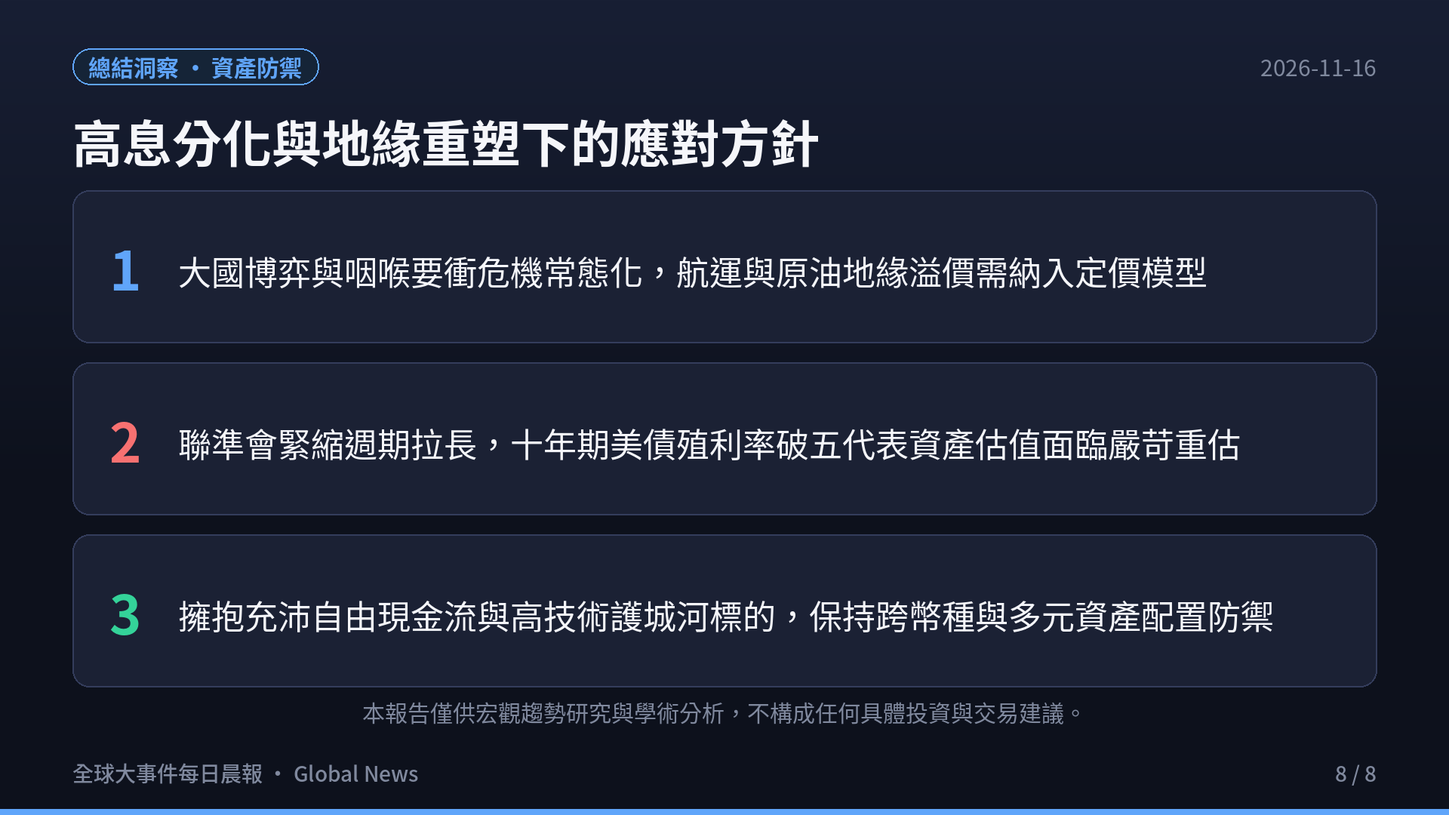
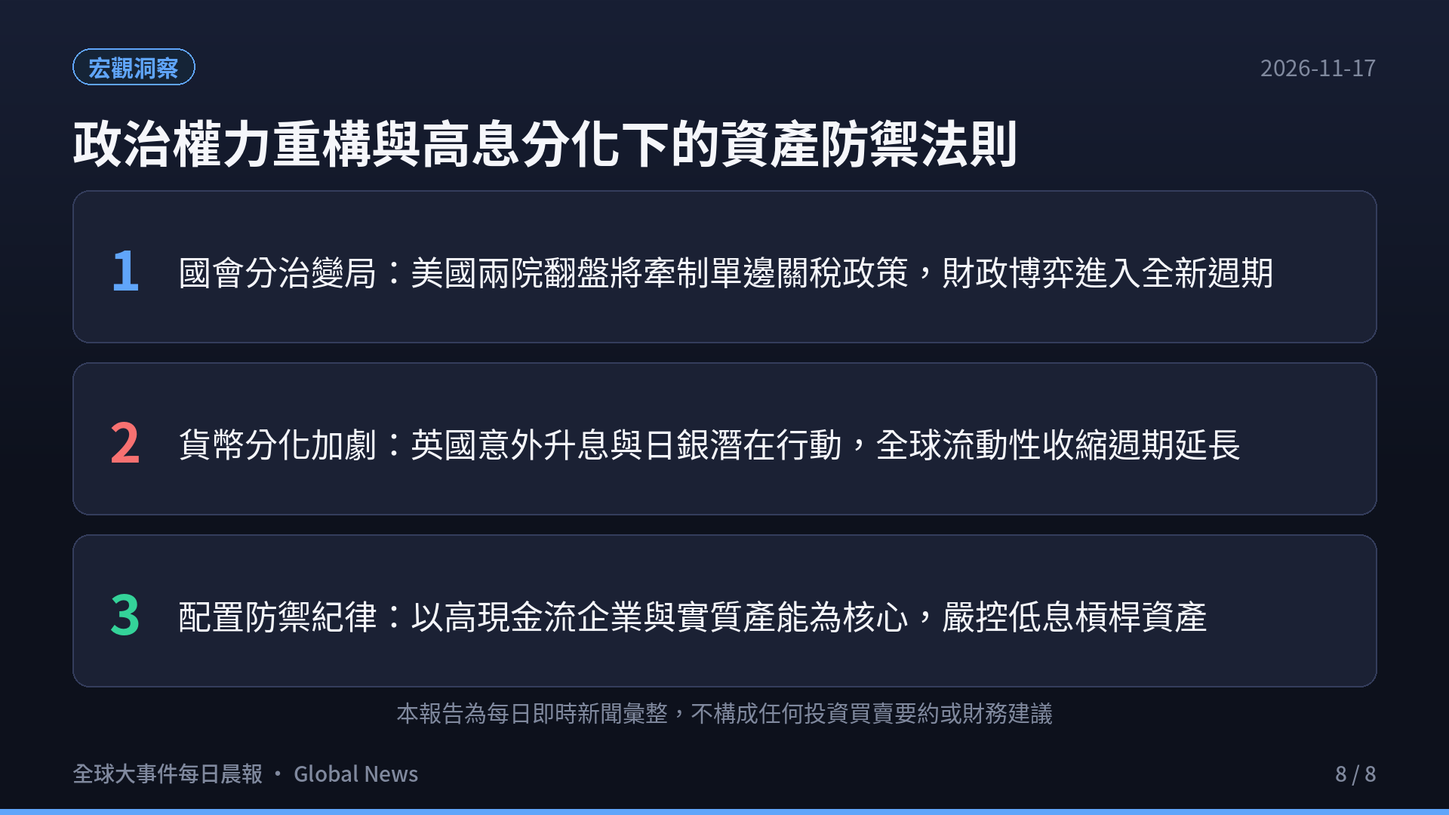
feat(blog): add global news daily report 2026-11-17 with slides and video

diff --git a/content/global-news/index.md b/content/global-news/index.md
@@ -1,26 +1,26 @@
 ---
-title: "全球大事件每日晨報 · 2026-11-16：SpaceX星艦歷史性回收・美通膨引爆升息警報・中美經貿首會・曼德海峽航運危機"
+title: "全球大事件每日晨報 · 2026-11-17：美期中選藍潮翻盤兩院・英央行升息至4%・俄伊導彈密件曝光・加國千億預算"
 url: "/global-news/"
-date: 2026-11-16T05:30:00+08:00
+date: 2026-11-17T05:30:00+08:00
 draft: false
 image: cover.png
 cover: "https://ckw19810413.github.io/global-news/cover.png"
-description: "2026-11-16 全球重大事件深度解析：SpaceX 星艦二級飛船實現歷史性發射塔空中捕獲回收、美國 10 月通膨回升至 0.4% 引爆聯準會升息警報、美債殖利率飆破 5%、中國央行調升外匯準備金率至 6%、中美舉行貿易理事會首會磋商 300 億對等降稅、阿布達比和談傳出領土換北約討論、伊朗無人機突襲巴林美軍雷達、葉門南方部隊撤離曼德海峽導致紅海航運溢價飆升，以及全球前十大經濟體核心總體數據橫向評比。"
-tags: ["全球大事件", "國際局勢", "SpaceX", "星艦", "聯準會", "美債殖利率", "通膨", "中美經貿", "外匯準備金", "曼德海峽", "烏克蘭和談", "總體經濟"]
+description: "2026-11-17 全球重大事件深度解析：美洲民主黨贏得期中大選奪回兩院、道瓊暴漲千點、英國央行升息至 4%、歐洲連環航班炸彈威脅排查、俄伊 90 具先進飛彈軍援密件曝光、加拿大公布 1510 億預算案、巴拉圭總統因銀行風暴請辭、亞洲製造業微幅回溫，以及全球前十大經濟體核心總體數據橫向評比。"
+tags: ["全球大事件", "國際局勢", "期中選舉", "美股", "英國升息", "歐洲航班", "俄伊密件", "荷姆茲海峽", "加拿大預算", "日銀升息", "總體經濟"]
 categories: ["國際局勢", "總體經濟"]
 aliases:
-  - "/blog/2026-11-16-global-news/"
-  - "/global-news/2026-11-16/"
+  - "/blog/2026-11-17-global-news/"
+  - "/global-news/2026-11-17/"
 ---
 
-> **觀測週期**：2026-11-16 晨間即時彙整  
+> **觀測週期**：2026-11-17 晨間即時彙整  
 > **情報涵蓋**：全球各大洲（北美、歐洲、中東、亞洲/印太、拉美、大洋洲）與全球前 10 大經濟體  
-> **核心來源**：各國政府公報、路透社（Reuters）、美聯社（AP）、新華社、各國央行公報與 S&P Global PMI 報告  
+> **核心來源**：各國政府公報、路透社（Reuters）、美聯社（AP）、英國衛報（The Guardian）、各國央行公報與 S&P Global PMI 報告  
 > **定位宗旨**：以客觀數據、官方決策與供應鏈結構為準繩，剔除短期情緒噪音，提煉出真正驅動全球資金流向與地緣版圖重構的核心脈絡。
 
 <div style="margin: 2rem 0; border-radius: 12px; overflow: hidden; box-shadow: 0 4px 20px rgba(0,0,0,0.12); border: 1px solid rgba(128,128,128,0.2);">
   <div style="position: relative; padding-bottom: 56.25%; height: 0; overflow: hidden; background: #0f121c;">
-    <iframe src="https://www.youtube.com/embed/vE_8XUdjXSE" title="2026-11-16 全球大事件每日晨報" style="position: absolute; top:0; left: 0; width: 100%; height: 100%; border: 0;" allow="accelerometer; autoplay; clipboard-write; encrypted-media; gyroscope; picture-in-picture; web-share" allowfullscreen></iframe>
+    <iframe src="https://www.youtube.com/embed/7VPUSr-dyS4" title="2026-11-17 全球大事件每日晨報" style="position: absolute; top:0; left: 0; width: 100%; height: 100%; border: 0;" allow="accelerometer; autoplay; clipboard-write; encrypted-media; gyroscope; picture-in-picture; web-share" allowfullscreen></iframe>
   </div>
   <div style="background: rgba(0,0,0,0.03); padding: 10px 16px; font-size: 0.9rem; color: var(--card-text-color-secondary, #666); text-align: center; border-top: 1px solid rgba(128,128,128,0.15);">
     🎬 <strong>120 秒晨間快報影音動態版</strong>（含 AI 自然神經語音朗讀與背景配樂）
@@ -31,79 +31,81 @@ aliases:
 
 ## 🎯 今日全球前 6 大核心事件深度拆解
 
-![焦點 1：SpaceX星艦實現「筷子夾飛船」，全美航空通信混亂逐步排除](s02.png)
+![焦點 1：美國期中大選藍潮翻盤，民主黨奪回兩院控制權](s02.png)
 
-### 1. 美洲航太與基礎設施：SpaceX 星艦創歷史性「筷子夾飛船」二級空中回收，全美航空停飛混亂逐步疏解
-- **星艦二級空中精準捕獲里程碑**：
-  - SpaceX 星艦從德州星艦基地升空，在軌繞飛 14 圈（歷時 22.5 小時）並成功部署 26 顆星鏈 V3 衛星後受控返回。發射塔巨型機械臂「Mechazilla（筷子）」首次在空中成功接住第二級飛船本體，實現人類航太史上首次完全可重複使用軌道飛船的空中捕捉。
-  - 儘管超重型助推器返航時轉向墨西哥灣觸水前解體，本次任務對二級飛船的捕獲驗證了星艦全面低成本進入太空與在軌加油的核心工程邏輯。
-- **全美航空通信故障逐步排除**：
-  - 針對美國空管系統日前突發通信故障引發全美逾 3,300 架次航班取消的混亂，美國聯邦航空局（FAA）局長布賴恩·貝德福德表示系統已修復，週日晚間各空運樞紐運能恢復正常，客流積壓正加速疏導。
-
----
-
-![焦點 2：美國十月通膨升至0.4%超預期，聯準會官員表態不排除加息](s03.png)
-
-### 2. 美洲宏觀經濟與資本市場：美國十月通膨反彈超預期，Fed 鷹派官員警示加息，美債十年期殖利率破 5%
-- **物價黏性與核心通膨反彈**：
-  - 美國最新公布的十月消費者物價指數（CPI）月增率達到 0.4%，核心 CPI 月增率 0.3%，均超出華爾街市場預估。租金住房成本與醫療服務業通膨具備高度黏性，通膨頑固回落困難。
-  - 十年期美國國債殖利率維持在 4.98%–5.15% 高檔震盪，兩年期殖利率升至 4.73%，創下數月以來新高。
-- **聯準會官員密集釋出鷹派信號**：
-  - 堪薩斯聯準銀行總裁 Jeff Schmid 與達拉斯聯準銀行總裁 Lorie Logan 等決策官員相繼發表公開演說，強調物價壓力依然過熱、通膨正走向錯誤方向，不排除需要進一步收緊貨幣政策。
-  - 利率期貨市場定價對十二月聯邦公開市場委員會（FOMC）升息一碼的機率已飆升至 80% 附近，高利率環境對全球科技股與高槓桿資產持續帶來重估壓力。
+### 1. 美洲政局與資本市場：美國期中選舉藍潮掀天翻地覆，民主黨重奪兩院掌控權，道瓊狂飆千點
+- **兩院版圖大翻盤與行政掣肘**：
+  - 美國期中大選計票塵埃落定，民主黨成功掀起「藍色浪潮」，一舉擊敗共和黨，同時奪回參議院與眾議院的絕對多數席次。
+  - 川普總統面臨任期後兩年的重大國會掣肘，白宮發言人隨後表態願與新國會多數展開跨黨派合作。此結果大幅降低了單邊全面徵收高額行政關稅的極端立法風險。
+- **資本市場暴力狂歡與避險消退**：
+  - 華爾街股市迎來狂歡式反彈，道瓊工業指數單日暴漲逾 1,500 點；與此同時，地緣避險溢價迅速回吐，國際原油期貨價格重挫回落。
+  - 聯準會利率目標區間維持在 3.75%–4.00%，市場預期分裂國會將遏制過度擴張性的財政赤字刺激，減輕後續通膨二次抬頭的風險。
 
 ---
 
-![焦點 3：中國央行調升外匯準備金率至6%，中美舉行貿易理事會首會](s04.png)
+![焦點 2：英國央行升息至 4%，歐洲航班驚傳連環炸彈威脅](s03.png)
 
-### 3. 亞太匯率與跨國經貿：中國央行調升外匯存款準備金率至 6%，中美經貿磋商機制項下首度舉行貿易理事會
-- **人行上調外匯存準率鎖定流動性**：
-  - 中國人民銀行（PBOC）自 11 月 15 日起正式將金融機構外匯存款準備金率由 4% 上調至 6%。此舉將收縮金融體系外幣流動性，有助於平衡外匯市場供求，有效抑制近期人民幣匯率的單邊升值預期，維持匯率在合理均衡水平上的基本穩定。
-- **中美貿易理事會首會落實對等降稅**：
-  - 中美雙方透過視訊形式舉行了經貿磋商機制項下「貿易理事會」首次會議。兩國圍繞落實元首共識，深入探討了關稅安排、「300億對300億」對等降稅清單以及農產品貿易，致力於拉長合作清單、壓縮問題清單。
-  - 同時，2026 APEC 深圳領導人會議周籌備工作已全面就緒，北交所亦迎來開市五週年，總市值達 8,000 億元人民幣。
-
----
-
-![焦點 4：烏克蘭和談新博弈：阿布達比傳出「頓巴斯換北約」討論](s05.png)
-
-### 4. 歐洲地緣與大國斡旋：烏克蘭和平談判迎關鍵轉折，阿布達比談判首度浮現「頓巴斯換北約」設想
-- **停火籌碼與領土談判公開化**：
-  - 在阿布達比舉行的最新一輪閉門和平斡旋中，美方談判代表首度向各方探討烏克蘭是否可能在東部頓巴斯地區做出領土妥協以換取加入北約的具體安排。
-  - 烏克蘭總統澤倫斯基在記者會上首度證實該議題已在談判桌上被提出，但強調任何方案都必須具備不可推翻的國際集體防衛安全保證，引發歐洲各國高度關注與戰略評估。
-- **美俄高層外交接觸加速**：
-  - 國際分析指出普丁與川普團隊正在推動高層戰略對話，但歐盟內部對於未來防務預算分攤以及烏克蘭主權邊界的保障仍存在顯著分歧，地緣博弈進入高度複雜的多方博弈期。
+### 2. 歐洲貨幣與航空安全：英格蘭銀行升息一碼至 4.0%，全歐二十餘航班遭遇虛假炸彈威脅緊急排查
+- **英國央行逆勢緊縮打擊通膨**：
+  - 英國央行（Bank of England）在 11 月議息會議宣布將基準利率上調 25 個基點至 **4.0%**，以壓制最新反彈至 3.5% 的核心消費者物價指數（CPI）。
+  - 標普全球（S&P Global）數據顯示，企業在人工智慧（AI）與雲端科技的資本支出推動英國服務業 PMI 躍升至八個月新高 52.8，但服務業工資黏性仍促使央行維持強硬立場。
+- **歐洲民航遭遇系統性虛假警報衝擊**：
+  - 全歐洲境內超過 21 架次國際商業航班遭遇協同性質的連環炸彈威脅，多座主要國際機場被迫緊急暫停起降並引導客機實施跑道滑行隔離搜查。
+  - 歐盟交通運輸專員已緊急聯手各國情報與航空安全局展開跨國溯源調查。
 
 ---
 
-![焦點 5：伊朗革命衛隊襲擊巴林美軍雷達，胡塞武裝進逼曼德海峽](s06.png)
+![焦點 3：俄伊導彈軍援密件曝光，荷姆茲海峽受損船隻引戒備](s04.png)
 
-### 5. 中東安全與咽喉要衝：伊朗無人機突襲巴林美軍雷達站，葉門親政府軍撤離曼德海峽，紅海航運風險再飆
-- **波斯灣軍事摩擦與空防交火**：
-  - 伊朗伊斯蘭革命衛隊（IRGC）宣稱出動六架自殺式無人機襲擊了位於巴林 Al-Riffa 直升機基地的美軍防空雷達系統，並在荷姆茲海峽格什姆島上空擊落一架美軍 MQ-1「捕食者」無人機；沙烏地聯軍則成功攔截了朝利雅德首都圈與東部油田射來的胡塞彈道飛彈。
-- **曼德海峽控制權位移與全球航運溢價**：
-  - 葉門政府盟友「南方武裝部隊」宣布從關鍵戰略節點曼德海峽沿岸撤離，回防南部重鎮亞丁市。此舉使伊朗支持的胡塞武裝進一步擴大並鞏固了對曼德海峽紅海咽喉要道的控制。
-  - 國際航運保費應聲調漲，各大航運巨頭維持繞行好望角策略，全球航運供應鏈週轉效率再次承壓。
+### 3. 中東防務與航運樞紐：烏情報曝俄向伊朗提供 90 具先進導向飛彈發射器，荷姆茲海峽受損船隻引發航運警戒
+- **俄伊戰略軍事技術合作文件外洩**：
+  - 烏克蘭情報部門獲取並經外媒確認的洩密防務文件顯示，俄羅斯已與伊朗達成協議，向德黑蘭提供 90 具先進 LMUR 直升機發射型精確導引飛彈系統，並持續提供軍用級衛星定位與目標偵察數據。
+  - 此舉被視為俄伊戰略夥伴關係的實質升級，引發美國五角大廈與中東盟邦對波斯灣軍事平衡的高度戒備。
+- **波斯灣與荷姆茲海峽航行警戒持續**：
+  - 伊朗伊斯蘭革命衛隊（IRGC）報告波斯灣荷姆茲海峽水域發生零星船隻受損事件，國際航運龍頭馬士基（Maersk）等持續啟動緊急應變規避指引，區域海上保險費率維持高檔。
 
 ---
 
-![焦點 6：全球前 10 大經濟體核心指標與政策全覽](s07.png)
+![焦點 4：加拿大公布千億預算案，巴拉圭總統因銀行風暴請辭](s05.png)
 
-### 6. 全球前 10 大經濟體核心總體數據橫向比對
-以下為本觀測週期全球前十大經濟體的貨幣政策、通膨走勢、實質動態與最新展望：
+### 4. 美洲與拉美震盪：加拿大推出 1510 億產能擴張預算，巴拉圭爆發銀行擠兌危機總統培尼亞請辭
+- **加拿大 2026 年度聯邦預算拍板**：
+  - 加拿大財政部長商鵬飛（François-Philippe Champagne）在總理馬克·卡尼（Mark Carney）內閣下發表高達 1,510 億加幣的第二任期聯邦預算案。
+  - 預算核心著重於大規模拉動私人資本投資、改善國家生產力瓶頸，並緩解家庭生活成本壓力，同時為美加可能出現的新一輪貿易摩擦築起防禦緩衝。
+- **南美爆發金融擠兌引發政局崩盤**：
+  - 南美洲巴拉圭大型商業銀行突發性流動性崩潰，引發全境數百萬民眾恐慌性排隊擠兌與街頭混亂。
+  - 在眾議院即將通過彈劾案前夕，巴拉圭總統聖地牙哥·培尼亞（Santiago Peña）正式宣布辭職，南美新興市場主權風險溢價隨之上升。
 
-| 排名 | 經濟體 | 核心貨幣政策與利率 | 最新重大進展與數據脈動 | 結構性趨勢與中長期展望 |
+---
+
+![焦點 5：亞洲製造業景氣微幅回溫，日銀維持 1.25% 利率](s06.png)
+
+### 5. 亞洲工廠動能與印太安保：亞洲製造業獲科技需求支撐，日銀按兵不動醞釀升息，北韓試射防空導彈
+- **亞洲供應鏈展現韌性**：
+  - 日本綜合採購經理人指數（Composite PMI）錄得 52.1，寫下連續第 19 個月保持在擴張區間的穩健紀錄，科技與半導體周邊設備需求提供主要支撐。
+  - 中國 RatingDog / S&P 合作發布的民間製造業 PMI 穩守 50 榮枯線之上，儘管銅冶煉廠面臨副產品硫酸價格暴跌帶來的利潤擠壓，高技術產品外銷仍具支撐力。
+- **印太安全情勢與東北亞動態**：
+  - 日本央行在貨幣政策決議中以 8 比 1 投票結果維持基準利率在 1.25% 不變，但總裁植田和男再次暗示若物價符合預期，年底或 2027 年初將進一步實施貨幣政策正常化。
+  - 北韓官方宣布成功完成新型防空飛彈與巡弋飛彈的多模式導向性能測試，美韓軍事同盟啟動動態警戒應對。
+
+---
+
+![焦點 6：全球前十大經濟體核心指標與趨勢](s07.png)
+
+### 6. 全球前十大經濟體核心指標與趨勢橫向全景
+
+| 排名 | 國家 / 經濟體 | 核心總體經濟數據 / 最新指標 | 2026-11-17 即時動態與政策取向 | 全球產業鏈與市場意涵 |
 |:---:|:---|:---|:---|:---|
-| **1** | **美國 (US)** | 聯邦基準利率 **3.75%–4.00%** · 12月升息預期升溫 | 10月 CPI 上漲 0.4%，10年期美債殖利率破 5.15%；全美航空空管修復 | 勞動力市場具黏性，高息環境壓制商業地產與中小型企業，科技資本支出呈現分化。 |
-| **2** | **中國 (China)** | 外匯存準率調升至 **6.0%** · 穩健貨幣政策 | 外匯存準率正式調升平衡匯市；中美貿易理事會首會磋商 300 億對等降稅 | 政策穩步推進長期資本與新質生產力，北交所 5 週年市值達 8,000 億，深圳 APEC 在即。 |
-| **3** | **德國 (Germany)** | 歐洲央行存款利率 **2.50%** · 限制性區間 | 歐元區通膨趨緩但製造業訂單疲弱；能源重組與綠色法規推升工業成本 | 工業龍頭在去碳化與高能源成本間艱難轉型，出口導向經濟體受全球關稅博弈壓制。 |
-| **4** | **日本 (Japan)** | 無擔保隔夜拆款利率 **1.25%** · 醞釀緊縮 | 日銀評估秋季薪資與服務業通膨，市場密切關注年末是否啟動進一步升息 | 擺脫三十年通縮循環，企業調薪推動良性通膨循環，日圓匯率與海外利差動態平衡。 |
-| **5** | **印度 (India)** | 附買回利率 **6.50%** · 經濟高速擴張 | 本季 GDP 增速維持在 7.2% 高位；跨國電子製造業加速投資設廠 | 人口紅利與「印度製造」吸引外資，但通膨與基礎設施瓶頸仍是中長期約束因素。 |
-| **6** | **英國 (UK)** | 基準利率 **4.00%** · 應對服務業黏性通膨 | 央行維持緊縮立場，服務業通膨反彈至 3.5%；金融與 AI 投資提供支撐 | 房貸按揭負擔沈重壓制居民消費，高息環境對公共財政赤字整頓帶來持續考驗。 |
-| **7** | **法國 (France)** | 歐洲央行統一利率 **2.50%** · 財政嚴格監控 | 財政預算審查與社會福利博弈白熱化；航空安全與地緣警戒推升維穩支出 | 公共債務高企限縮財政刺激空間，核心製造業與航空航太產業受地緣供應鏈牽制。 |
-| **8** | **義大利 (Italy)** | 歐元區存款利率 **2.50%** · 國債利差持穩 | 歐元區降息節奏放緩；義大利 10 年期國債利差保持健康，歐盟基建款穩步到位 | 倚重歐盟「復甦基金」推動數位化與能源基建，經濟成長高度依賴外部資金支持。 |
-| **9** | **加拿大 (Canada)** | 基準利率 **3.25%** · 貿易防範預警 | 聯邦政府平衡房地產降溫與赤字開支；提前防範北美貿易協定潛在地緣變數 | 人均生產力停滯，央行需在防範通膨回潮與避免按揭市場斷供之間維持精細平衡。 |
-| **10** | **澳洲 (Australia)** | 現金利率目標 **4.35%** · 商品貿易順差 | 澳洲央行維持限制性高息；大宗鐵礦石與液化天然氣出口維持強韌貿易帳 | 關鍵礦產與綠色能源出口吸引跨國投資，但房租與服務業通膨黏性限制短期降息空間。 |
+| **1** | **美國 (USA)** | 基準利率 **3.75%–4.00%** · 通膨 **3.7%** | 期中大選藍潮奪回兩院；道瓊暴漲 1500 點；川普承諾與國會合作 | 國會分治阻絕激進單邊關稅風險，美股風險溢價快速重估，長端殖利率壓力略減。 |
+| **2** | **中國 (China)** | 民間 PMI **> 50** · 銅冶煉利潤承壓 | 科技製造業外銷訂單維持動能；副產品價格下跌壓抑冶煉業；財政基建持續落地 | 科技與新能源供應鏈維持韌性，製造業加速向高附加價值端升級。 |
+| **3** | **德國 (Germany)** | 歐洲央行存款利率 **2.50%** · 工業疲軟 | 歐元區航班炸彈威脅衝擊交通；ECB 利率按兵不動；汽車供應鏈轉型陣痛 | 德國作為歐洲工業龍頭持續受制於高能源成本與地緣分割，依賴新基建帶動。 |
+| **4** | **日本 (Japan)** | 政策利率維持 **1.25%** · 綜合 PMI **52.1** | 連續 19 個月維持景氣擴張；日銀釋放年底進一步升息預期；AI 晶片設備出口穩健 | 日圓匯率築底反彈，日銀正常化進程持續牽引全球套息交易（Carry Trade）倉位調整。 |
+| **5** | **印度 (India)** | GDP 預測成長 **6.8%** · 通膨率 **5.0%** | Quad 關鍵礦產與半導體產線深化；新德里選務抗議維安警戒；內需消費強勁 | 作為全球供應鏈多元化核心樞紐，資本流入動能強勁，製造業產能迅速擴增。 |
+| **6** | **英國 (UK)** | 基準利率升至 **4.0%** · 服務業 PMI **52.8** | 英國央行升息一碼應對 3.5% 通膨；企業 AI 支出爆發帶動服務業八個月新高 | 服務業需求展現高韌性，但高利率對地產與按揭貸款家庭造成進一步借貸成本壓力。 |
+| **7** | **法國 (France)** | 歐洲央行存款利率 **2.50%** · 罷工餘波 | 生活成本高漲引發全國黑色星期四抗議；航空炸彈警報波及巴黎等樞紐機場 | 社會福利與財政緊縮政策博弈加劇，公共部門預算整頓面臨政治民意反彈。 |
+| **8** | **義大利 (Italy)** | 歐元區統一利率 **2.50%** · 國債監控 | 歐元區降息預期暫緩；國債利差持穩；歐盟綠色轉型與基礎建設專案推進 | 財政審查嚴格，對歐洲央行貨幣緊縮節奏極度敏感，聚焦高收益基建回報。 |
+| **9** | **加拿大 (Canada)** | 1510 億聯邦預算 · 刺激生產力 | 財長商鵬飛發表卡尼內閣預算案；拉動私人資本投資防範美加貿易變數 | 擴張性預算旨在提升人均生產力，並在美選後對北美自由貿易協定進行動態預防。 |
+| **10** | **澳洲 (Australia)** | 基準利率 **4.35%** · 商品貿易順差 | 澳洲央行維持限制性高息；大宗金屬與天然氣出口穩定；籌備 COP31 氣候峰會 | 能源過渡與關鍵礦產吸引跨國資本，但服務業通膨黏性限制央行短期降息空間。 |
 
 ---
 
@@ -111,15 +113,15 @@ aliases:
 
 ![今日重點總結](s08.png)
 
-1. **航運咽喉危機與能源溢價的常態化重估**：
-   - 曼德海峽控制權位移與波斯灣無人機交火，證明全球能源與貿易關鍵節點的地緣風險正在結構性上升。
-   - 繞行好望角帶來的航運附加費與交付週期拉長，將轉化為終端商品的結構性摩擦成本，推遲全球通膨回歸央行 2% 目標的時間線。
-2. **美債殖利率破 5% 時代的資產估值壓力**：
-   - 10 年期美債殖利率站上 5.15%，標誌著無風險利率的持久高原期。任何依賴廉價融資與遠期故事的商業模式將持續遭遇資本壓力測試。
-   - 投資者應堅守「高自由現金流、低負債率、具備實質定價權與技術護城河」的三大原則，防範市場估值中樞下移風險。
-3. **中美經貿機制與跨幣種資產分散戰略**：
-   - 中國調升外匯準備金率與中美經貿談判推進，反映大國在維持基本戰略穩定與防範匯率無序波動上的政策合力。
-   - 投資組合應避免單一美元資產曝險，適度配置大宗抗通膨資產、高流動性短期債券與具備供應鏈替代壁壘的優質股權。
+1. **大選投票與地緣變數引發的全球資產重定價**：
+   - 美國期中大選結果將直接重塑華府未來兩年的財政與外交政策，尤其在對伊軍事決策與關稅法案上的行政掣肘。
+   - 伴隨 OPEC+ 產量凍結、荷姆茲海峽風險溢價持續，油價維持高檔將成為各國央行延後降息或重啟緊縮的催化劑。
+2. **通膨黏性與社會結構性矛盾爆發**：
+   - 德國 200 多人被捕的青年抗爭與法國製造業收縮，再次揭示高生活成本對歐美民生結構造成的持久性創傷。
+   - 工廠端投入成本以五月以來最快速度反彈，反映全球供應鏈在地緣分割與脫鉤下的「結構性摩擦成本」難以在短期內消除。
+3. **高息持久戰下的資產配置防禦紀律**：
+   - 10 年期美債殖利率維持在 4.9% 附近，高無風險利率代表一切依賴低息流動性的商業模式都將加速接受壓力測試。
+   - 投資者應堅守「高確定性現金流、低財務槓桿、具備技術與定價護城河」的三大原則，保持彈性資產配置。
 
 ---
 

diff --git a/content/blog/2026-11-17-global-news/index.md b/content/blog/2026-11-17-global-news/index.md
@@ -1,0 +1,139 @@
+---
+title: "全球大事件每日晨報 · 2026-11-17：美期中選藍潮翻盤兩院・英央行升息至4%・俄伊導彈密件曝光・加國千億預算"
+url: "/global-news/"
+date: 2026-11-17T05:30:00+08:00
+draft: false
+image: cover.png
+cover: "https://ckw19810413.github.io/global-news/cover.png"
+description: "2026-11-17 全球重大事件深度解析：美洲民主黨贏得期中大選奪回兩院、道瓊暴漲千點、英國央行升息至 4%、歐洲連環航班炸彈威脅排查、俄伊 90 具先進飛彈軍援密件曝光、加拿大公布 1510 億預算案、巴拉圭總統因銀行風暴請辭、亞洲製造業微幅回溫，以及全球前十大經濟體核心總體數據橫向評比。"
+tags: ["全球大事件", "國際局勢", "期中選舉", "美股", "英國升息", "歐洲航班", "俄伊密件", "荷姆茲海峽", "加拿大預算", "日銀升息", "總體經濟"]
+categories: ["國際局勢", "總體經濟"]
+aliases:
+  - "/blog/2026-11-17-global-news/"
+  - "/global-news/2026-11-17/"
+---
+
+> **觀測週期**：2026-11-17 晨間即時彙整  
+> **情報涵蓋**：全球各大洲（北美、歐洲、中東、亞洲/印太、拉美、大洋洲）與全球前 10 大經濟體  
+> **核心來源**：各國政府公報、路透社（Reuters）、美聯社（AP）、英國衛報（The Guardian）、各國央行公報與 S&P Global PMI 報告  
+> **定位宗旨**：以客觀數據、官方決策與供應鏈結構為準繩，剔除短期情緒噪音，提煉出真正驅動全球資金流向與地緣版圖重構的核心脈絡。
+
+<div style="margin: 2rem 0; border-radius: 12px; overflow: hidden; box-shadow: 0 4px 20px rgba(0,0,0,0.12); border: 1px solid rgba(128,128,128,0.2);">
+  <div style="position: relative; padding-bottom: 56.25%; height: 0; overflow: hidden; background: #0f121c;">
+    <iframe src="https://www.youtube.com/embed/7VPUSr-dyS4" title="2026-11-17 全球大事件每日晨報" style="position: absolute; top:0; left: 0; width: 100%; height: 100%; border: 0;" allow="accelerometer; autoplay; clipboard-write; encrypted-media; gyroscope; picture-in-picture; web-share" allowfullscreen></iframe>
+  </div>
+  <div style="background: rgba(0,0,0,0.03); padding: 10px 16px; font-size: 0.9rem; color: var(--card-text-color-secondary, #666); text-align: center; border-top: 1px solid rgba(128,128,128,0.15);">
+    🎬 <strong>120 秒晨間快報影音動態版</strong>（含 AI 自然神經語音朗讀與背景配樂）
+  </div>
+</div>
+
+---
+
+## 🎯 今日全球前 6 大核心事件深度拆解
+
+![焦點 1：美國期中大選藍潮翻盤，民主黨奪回兩院控制權](s02.png)
+
+### 1. 美洲政局與資本市場：美國期中選舉藍潮掀天翻地覆，民主黨重奪兩院掌控權，道瓊狂飆千點
+- **兩院版圖大翻盤與行政掣肘**：
+  - 美國期中大選計票塵埃落定，民主黨成功掀起「藍色浪潮」，一舉擊敗共和黨，同時奪回參議院與眾議院的絕對多數席次。
+  - 川普總統面臨任期後兩年的重大國會掣肘，白宮發言人隨後表態願與新國會多數展開跨黨派合作。此結果大幅降低了單邊全面徵收高額行政關稅的極端立法風險。
+- **資本市場暴力狂歡與避險消退**：
+  - 華爾街股市迎來狂歡式反彈，道瓊工業指數單日暴漲逾 1,500 點；與此同時，地緣避險溢價迅速回吐，國際原油期貨價格重挫回落。
+  - 聯準會利率目標區間維持在 3.75%–4.00%，市場預期分裂國會將遏制過度擴張性的財政赤字刺激，減輕後續通膨二次抬頭的風險。
+
+---
+
+![焦點 2：英國央行升息至 4%，歐洲航班驚傳連環炸彈威脅](s03.png)
+
+### 2. 歐洲貨幣與航空安全：英格蘭銀行升息一碼至 4.0%，全歐二十餘航班遭遇虛假炸彈威脅緊急排查
+- **英國央行逆勢緊縮打擊通膨**：
+  - 英國央行（Bank of England）在 11 月議息會議宣布將基準利率上調 25 個基點至 **4.0%**，以壓制最新反彈至 3.5% 的核心消費者物價指數（CPI）。
+  - 標普全球（S&P Global）數據顯示，企業在人工智慧（AI）與雲端科技的資本支出推動英國服務業 PMI 躍升至八個月新高 52.8，但服務業工資黏性仍促使央行維持強硬立場。
+- **歐洲民航遭遇系統性虛假警報衝擊**：
+  - 全歐洲境內超過 21 架次國際商業航班遭遇協同性質的連環炸彈威脅，多座主要國際機場被迫緊急暫停起降並引導客機實施跑道滑行隔離搜查。
+  - 歐盟交通運輸專員已緊急聯手各國情報與航空安全局展開跨國溯源調查。
+
+---
+
+![焦點 3：俄伊導彈軍援密件曝光，荷姆茲海峽受損船隻引戒備](s04.png)
+
+### 3. 中東防務與航運樞紐：烏情報曝俄向伊朗提供 90 具先進導向飛彈發射器，荷姆茲海峽受損船隻引發航運警戒
+- **俄伊戰略軍事技術合作文件外洩**：
+  - 烏克蘭情報部門獲取並經外媒確認的洩密防務文件顯示，俄羅斯已與伊朗達成協議，向德黑蘭提供 90 具先進 LMUR 直升機發射型精確導引飛彈系統，並持續提供軍用級衛星定位與目標偵察數據。
+  - 此舉被視為俄伊戰略夥伴關係的實質升級，引發美國五角大廈與中東盟邦對波斯灣軍事平衡的高度戒備。
+- **波斯灣與荷姆茲海峽航行警戒持續**：
+  - 伊朗伊斯蘭革命衛隊（IRGC）報告波斯灣荷姆茲海峽水域發生零星船隻受損事件，國際航運龍頭馬士基（Maersk）等持續啟動緊急應變規避指引，區域海上保險費率維持高檔。
+
+---
+
+![焦點 4：加拿大公布千億預算案，巴拉圭總統因銀行風暴請辭](s05.png)
+
+### 4. 美洲與拉美震盪：加拿大推出 1510 億產能擴張預算，巴拉圭爆發銀行擠兌危機總統培尼亞請辭
+- **加拿大 2026 年度聯邦預算拍板**：
+  - 加拿大財政部長商鵬飛（François-Philippe Champagne）在總理馬克·卡尼（Mark Carney）內閣下發表高達 1,510 億加幣的第二任期聯邦預算案。
+  - 預算核心著重於大規模拉動私人資本投資、改善國家生產力瓶頸，並緩解家庭生活成本壓力，同時為美加可能出現的新一輪貿易摩擦築起防禦緩衝。
+- **南美爆發金融擠兌引發政局崩盤**：
+  - 南美洲巴拉圭大型商業銀行突發性流動性崩潰，引發全境數百萬民眾恐慌性排隊擠兌與街頭混亂。
+  - 在眾議院即將通過彈劾案前夕，巴拉圭總統聖地牙哥·培尼亞（Santiago Peña）正式宣布辭職，南美新興市場主權風險溢價隨之上升。
+
+---
+
+![焦點 5：亞洲製造業景氣微幅回溫，日銀維持 1.25% 利率](s06.png)
+
+### 5. 亞洲工廠動能與印太安保：亞洲製造業獲科技需求支撐，日銀按兵不動醞釀升息，北韓試射防空導彈
+- **亞洲供應鏈展現韌性**：
+  - 日本綜合採購經理人指數（Composite PMI）錄得 52.1，寫下連續第 19 個月保持在擴張區間的穩健紀錄，科技與半導體周邊設備需求提供主要支撐。
+  - 中國 RatingDog / S&P 合作發布的民間製造業 PMI 穩守 50 榮枯線之上，儘管銅冶煉廠面臨副產品硫酸價格暴跌帶來的利潤擠壓，高技術產品外銷仍具支撐力。
+- **印太安全情勢與東北亞動態**：
+  - 日本央行在貨幣政策決議中以 8 比 1 投票結果維持基準利率在 1.25% 不變，但總裁植田和男再次暗示若物價符合預期，年底或 2027 年初將進一步實施貨幣政策正常化。
+  - 北韓官方宣布成功完成新型防空飛彈與巡弋飛彈的多模式導向性能測試，美韓軍事同盟啟動動態警戒應對。
+
+---
+
+![焦點 6：全球前十大經濟體核心指標與趨勢](s07.png)
+
+### 6. 全球前十大經濟體核心指標與趨勢橫向全景
+
+| 排名 | 國家 / 經濟體 | 核心總體經濟數據 / 最新指標 | 2026-11-17 即時動態與政策取向 | 全球產業鏈與市場意涵 |
+|:---:|:---|:---|:---|:---|
+| **1** | **美國 (USA)** | 基準利率 **3.75%–4.00%** · 通膨 **3.7%** | 期中大選藍潮奪回兩院；道瓊暴漲 1500 點；川普承諾與國會合作 | 國會分治阻絕激進單邊關稅風險，美股風險溢價快速重估，長端殖利率壓力略減。 |
+| **2** | **中國 (China)** | 民間 PMI **> 50** · 銅冶煉利潤承壓 | 科技製造業外銷訂單維持動能；副產品價格下跌壓抑冶煉業；財政基建持續落地 | 科技與新能源供應鏈維持韌性，製造業加速向高附加價值端升級。 |
+| **3** | **德國 (Germany)** | 歐洲央行存款利率 **2.50%** · 工業疲軟 | 歐元區航班炸彈威脅衝擊交通；ECB 利率按兵不動；汽車供應鏈轉型陣痛 | 德國作為歐洲工業龍頭持續受制於高能源成本與地緣分割，依賴新基建帶動。 |
+| **4** | **日本 (Japan)** | 政策利率維持 **1.25%** · 綜合 PMI **52.1** | 連續 19 個月維持景氣擴張；日銀釋放年底進一步升息預期；AI 晶片設備出口穩健 | 日圓匯率築底反彈，日銀正常化進程持續牽引全球套息交易（Carry Trade）倉位調整。 |
+| **5** | **印度 (India)** | GDP 預測成長 **6.8%** · 通膨率 **5.0%** | Quad 關鍵礦產與半導體產線深化；新德里選務抗議維安警戒；內需消費強勁 | 作為全球供應鏈多元化核心樞紐，資本流入動能強勁，製造業產能迅速擴增。 |
+| **6** | **英國 (UK)** | 基準利率升至 **4.0%** · 服務業 PMI **52.8** | 英國央行升息一碼應對 3.5% 通膨；企業 AI 支出爆發帶動服務業八個月新高 | 服務業需求展現高韌性，但高利率對地產與按揭貸款家庭造成進一步借貸成本壓力。 |
+| **7** | **法國 (France)** | 歐洲央行存款利率 **2.50%** · 罷工餘波 | 生活成本高漲引發全國黑色星期四抗議；航空炸彈警報波及巴黎等樞紐機場 | 社會福利與財政緊縮政策博弈加劇，公共部門預算整頓面臨政治民意反彈。 |
+| **8** | **義大利 (Italy)** | 歐元區統一利率 **2.50%** · 國債監控 | 歐元區降息預期暫緩；國債利差持穩；歐盟綠色轉型與基礎建設專案推進 | 財政審查嚴格，對歐洲央行貨幣緊縮節奏極度敏感，聚焦高收益基建回報。 |
+| **9** | **加拿大 (Canada)** | 1510 億聯邦預算 · 刺激生產力 | 財長商鵬飛發表卡尼內閣預算案；拉動私人資本投資防範美加貿易變數 | 擴張性預算旨在提升人均生產力，並在美選後對北美自由貿易協定進行動態預防。 |
+| **10** | **澳洲 (Australia)** | 基準利率 **4.35%** · 商品貿易順差 | 澳洲央行維持限制性高息；大宗金屬與天然氣出口穩定；籌備 COP31 氣候峰會 | 能源過渡與關鍵礦產吸引跨國資本，但服務業通膨黏性限制央行短期降息空間。 |
+
+---
+
+## 💡 總結與投資者生存指南
+
+![今日重點總結](s08.png)
+
+1. **大選投票與地緣變數引發的全球資產重定價**：
+   - 美國期中大選結果將直接重塑華府未來兩年的財政與外交政策，尤其在對伊軍事決策與關稅法案上的行政掣肘。
+   - 伴隨 OPEC+ 產量凍結、荷姆茲海峽風險溢價持續，油價維持高檔將成為各國央行延後降息或重啟緊縮的催化劑。
+2. **通膨黏性與社會結構性矛盾爆發**：
+   - 德國 200 多人被捕的青年抗爭與法國製造業收縮，再次揭示高生活成本對歐美民生結構造成的持久性創傷。
+   - 工廠端投入成本以五月以來最快速度反彈，反映全球供應鏈在地緣分割與脫鉤下的「結構性摩擦成本」難以在短期內消除。
+3. **高息持久戰下的資產配置防禦紀律**：
+   - 10 年期美債殖利率維持在 4.9% 附近，高無風險利率代表一切依賴低息流動性的商業模式都將加速接受壓力測試。
+   - 投資者應堅守「高確定性現金流、低財務槓桿、具備技術與定價護城河」的三大原則，保持彈性資產配置。
+
+---
+
+### ☕ 支持與精選推薦
+
+如果你覺得這份每日晨報對你的宏觀視野與決策有實質幫助，歡迎透過以下方式支持我們持續產出深度內容：
+
+- ☕ **請我喝杯咖啡**：[Ko-fi 小費贊助 (ytstories0413)](https://ko-fi.com/ytstories0413) 或 [Ko-fi 贊助 (slashman413)](https://ko-fi.com/slashman413)（支持每日自動化爬蟲、語音合成與雲端運算）
+- 📚 **數位產品與高人效生產力工具**：
+  - [Gumroad 數位商品專區](https://slashmaster6.gumroad.com/)：收錄精選 AI Prompt 庫、生產力自動化工作流與實戰腳本
+  - [SlashmanTools 免費 Web 工具集](https://slashmantools.us/)：Token 成本計算器、顯存預估、開源 AI 工具導航
+- 📖 **精選經典閱讀推薦**：
+  - [《晶片戰爭》（Chip War）](https://www.amazon.com/dp/059371671X?tag=ytstories0413-20)：理解全球晶片霸權與印太供應鏈重組的必讀經典
+  - [《原子習慣》— 細微改變帶來巨大成就](https://www.books.com.tw/products/0010792915)
+  - [《人生的智慧》— 叔本華處世哲學經典](https://www.books.com.tw/products/0010613113)
